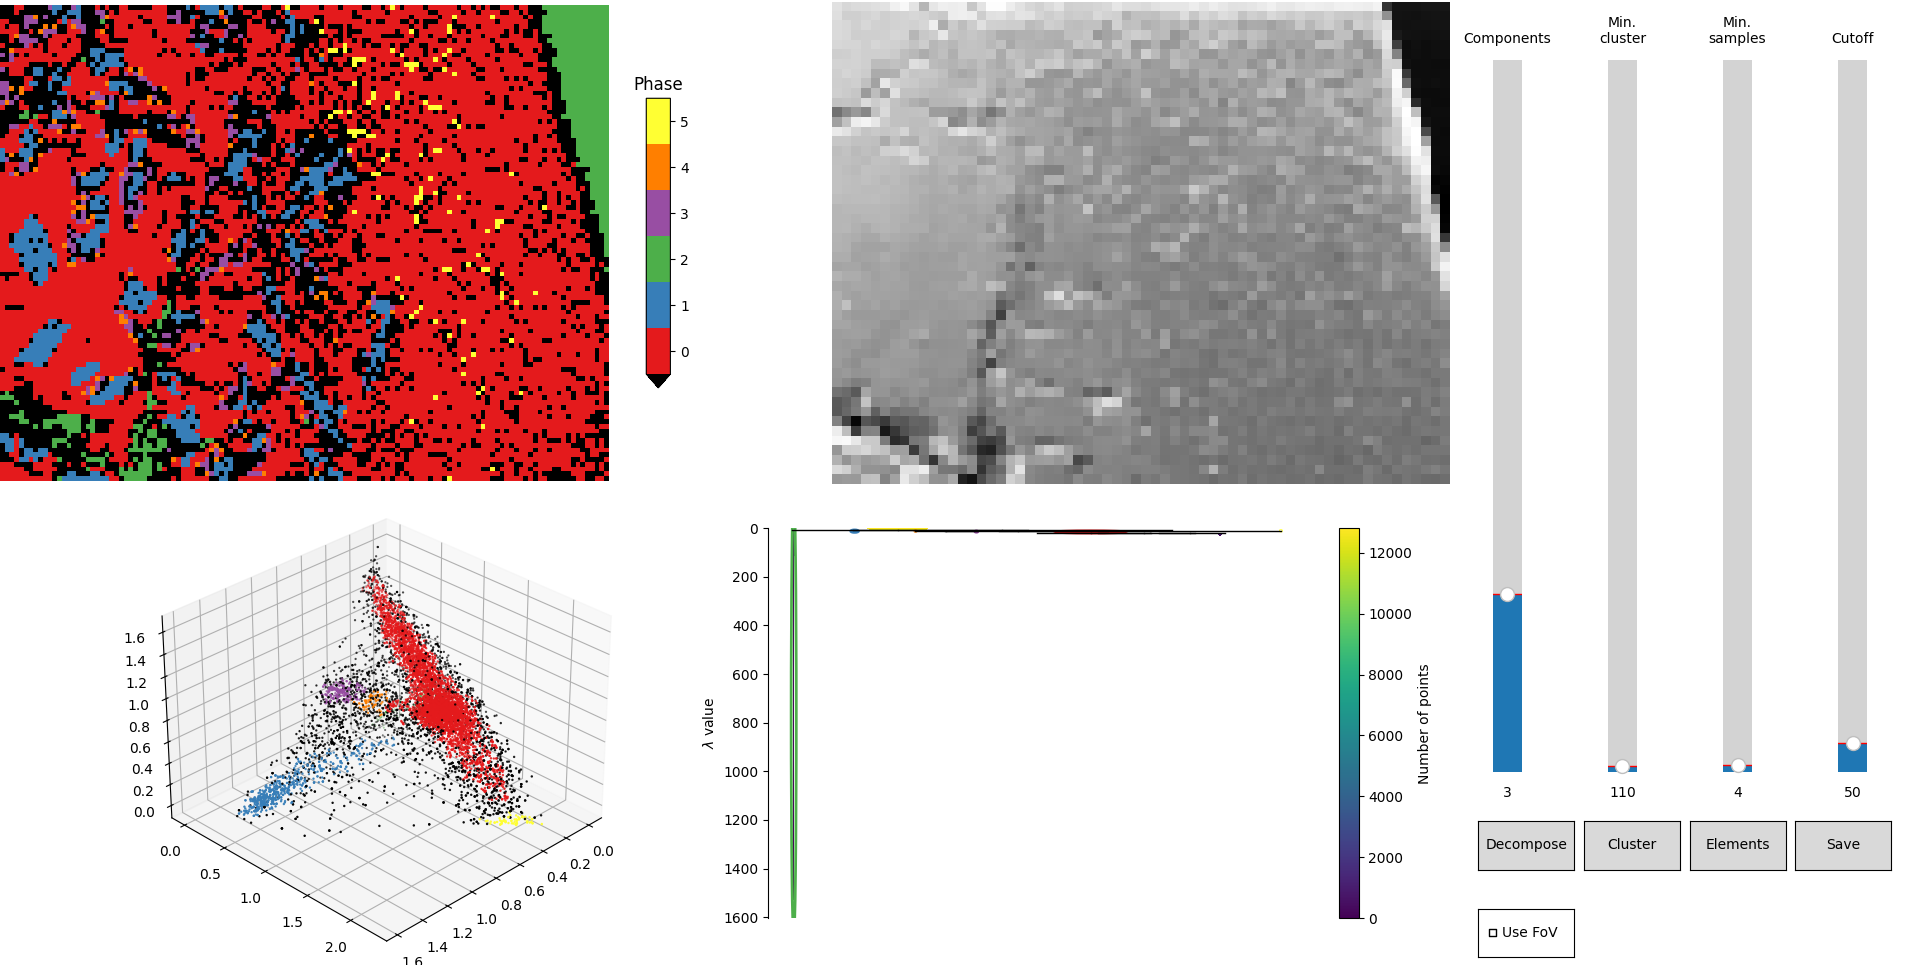
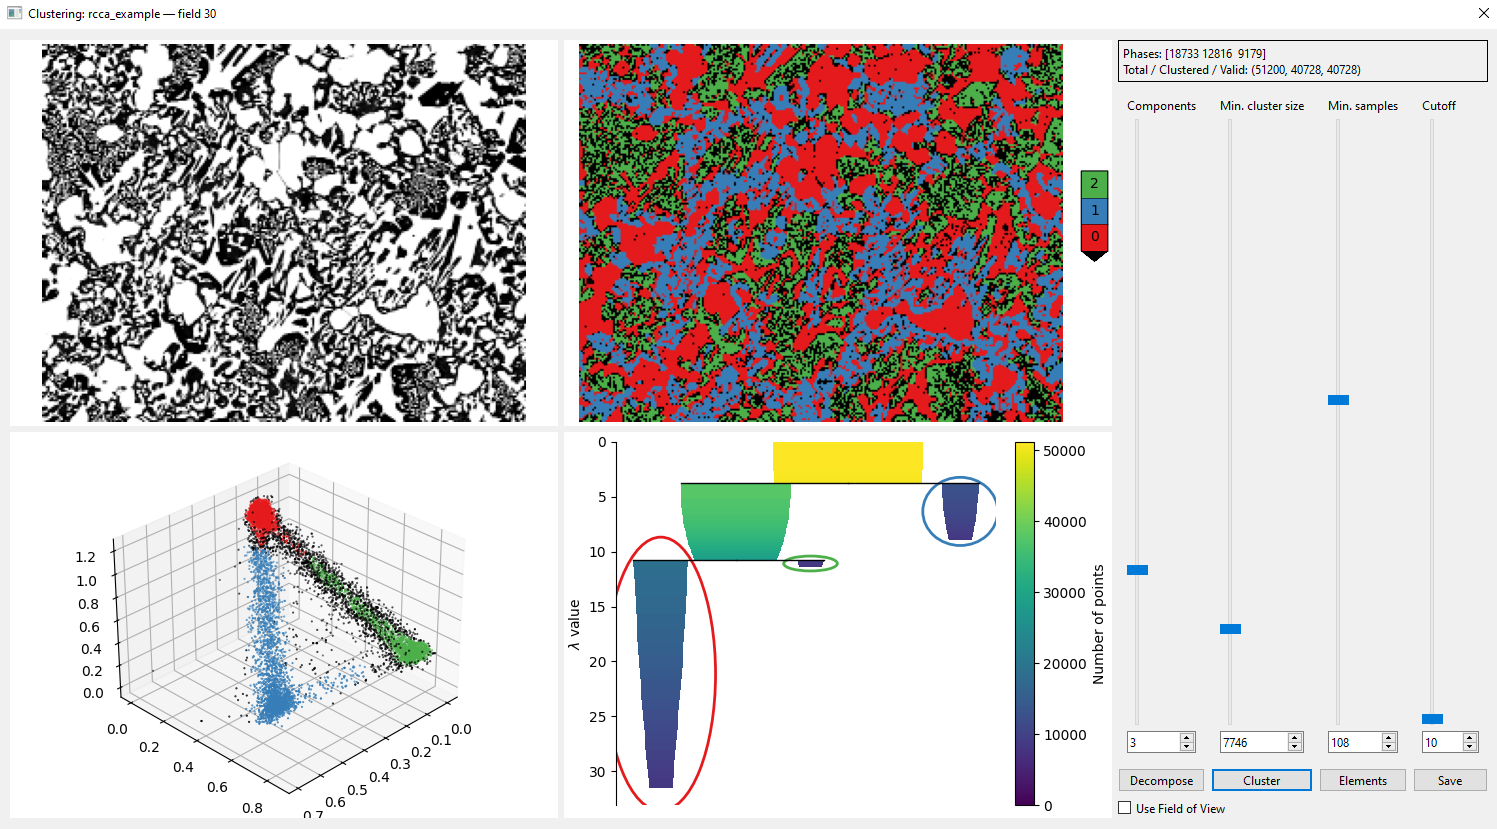
readme update, edaxh5 localization issues

diff --git a/eds_phanal.py b/eds_phanal.py
@@ -410,9 +410,21 @@ class EDSmap:
     def load_from_edax_h5(self, fname, h5_path, element_list = None):
         f = h5py.File(fname, "r")
         
-        livemap_path = '/Live Map 1/'
+        # Try possible livemap paths
+        possible_paths = ['/Live Map 1/', '/Live Mapa 1/', '/Live Map 2/']
+        livemap_path = None
+        for path in possible_paths:
+            if h5_path + path + 'SPD' in f:
+                livemap_path = path
+                break
+        
+        if livemap_path is None:
+            raise KeyError(f"Could not find livemap path in {h5_path}. Tried: {possible_paths}")
+
+        print(h5_path + livemap_path + 'SPD')
 
         spd_dts =   f[h5_path + livemap_path + 'SPD']
+
         fov_dts =   f[h5_path + '/FOVIMAGE']
         meta_host = f[h5_path + livemap_path + 'HOSTPARAMS']
         meta_map =  f[h5_path + livemap_path + 'MAPIMAGEIPR']

diff --git a/README.md b/README.md
@@ -4,7 +4,7 @@ This is a tool which:
 
 1. extracts data from EDAX APEX datasets
 2. does a user-tunable cluster analysis for grouping the pixels into phases
-3. exports the per-phase spectra into *.msa format (to be opened in DTSA analysis tool)
+3. exports the per-phase spectra into *.msa format (to be opened in e.g. DTSA-II analysis tool [link](https://www.cstl.nist.gov/div837/837.02/epq/dtsa2/index.html))
 4. does a basic quantification of the image.
 
 It uses Non-negative Matrix Factorization for signal decomposition and HDBSCAN for clustering.
@@ -45,7 +45,7 @@ Total / Clustered / Valid: 12800 9097 9097
 ```
 
 The first line tells you the number of pixels per each phase, the second line the total statistics – 
-map size, points assigned to clusters by HDBSCAN and final points selected as valid (if cutoff is used).
+map size, points assigned to clusters by HDBSCAN and final points selected as valid (if cutoff is used). The same information is printed to the GUI window (top right box).
 
 The GUI for tweaking the parameter is shown below. The meaning of plots is following:
 
@@ -56,12 +56,18 @@ The GUI for tweaking the parameter is shown below. The meaning of plots is follo
 
 ![GUI example](gui.png)
 
+Running following command will show exactly the example above:
+
+```
+python .\eds_phanal.py .\examples\rcca_example.h5 /rcca_alTiTaZrNb/comps/30 -m -e Al Ti Nb Zr Ta -b 2
+```
+
 ### Sliders
 
 The sliders control various parameters of the decomposition and clustering.
 
 - `Components` number of components (dimension) to be obtained from the decomposition algorithm
-- `Min. cluster` HDBSCAN parameter `min_cluster_size` – minimum size of a group to be considered as a valid cluster
+- `Min. cluster size` HDBSCAN parameter `min_cluster_size` – minimum size of a group to be considered as a valid cluster
 - `Min. samples` HDBSCAN parameter `min_sample` – minimum size of a group to be considered a core of a possible cluster (before cluster merging)
 - `Cutoff` postprocessing – cutoff of all phases with less points
 
@@ -78,6 +84,7 @@ Decomposition is generally slower than clustering. `Decompose` has to be used wh
 
 ## References
 
-NNMF
+Lee, Daniel D., and H. Sebastian Seung. Learning the Parts of Objects by Non-Negative Matrix Factorization. Nature 401, no. 6755 (1999): 788–91. [https://doi.org/10.1038/44565].
+
 
 L. McInnes, J. Healy, S. Astels, _hdbscan: Hierarchical density based clustering_ In: Journal of Open Source Software, The Open Journal, volume 2, number 11. 2017
